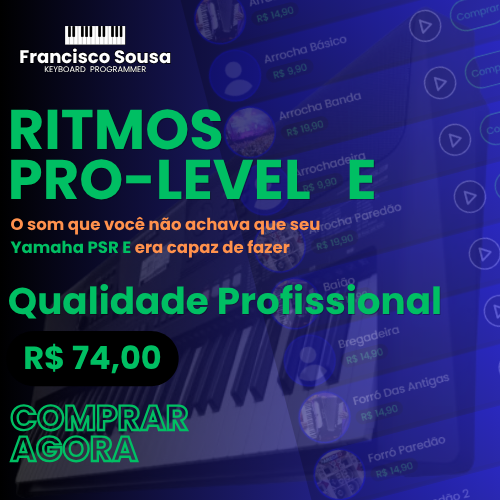
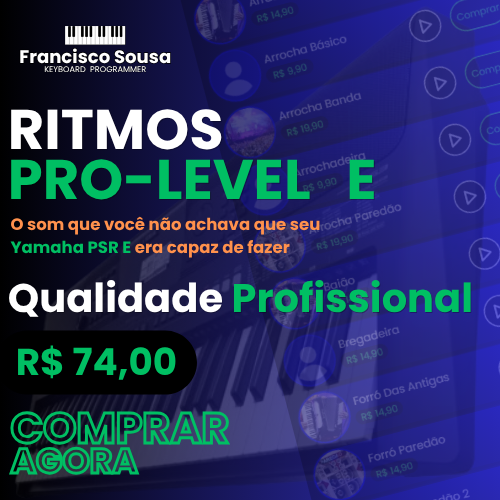
update site

Changed region(s): [[0.0, 0.66, 0.48, 0.96], [0.0, 0.54, 0.96, 0.66], [0.0, 0.21, 0.45, 0.3]]

diff --git a/ritmos-psr-e.html b/ritmos-psr-e.html
@@ -429,13 +429,13 @@
 
             <!-- Produto 16 -->
             
-
+            <!--
             <div class="produto">
                 <p style="color: white; font-family: poppins; margin: auto; font-size: 0.9em;
                     text-shadow: 1px 1px 3px green;">
                     M a i s _ R i t m o s _ E m _ B r e v e . . .
                 </p>
-            </div>
+            </div>-->
         </div>
         <hr>
 
